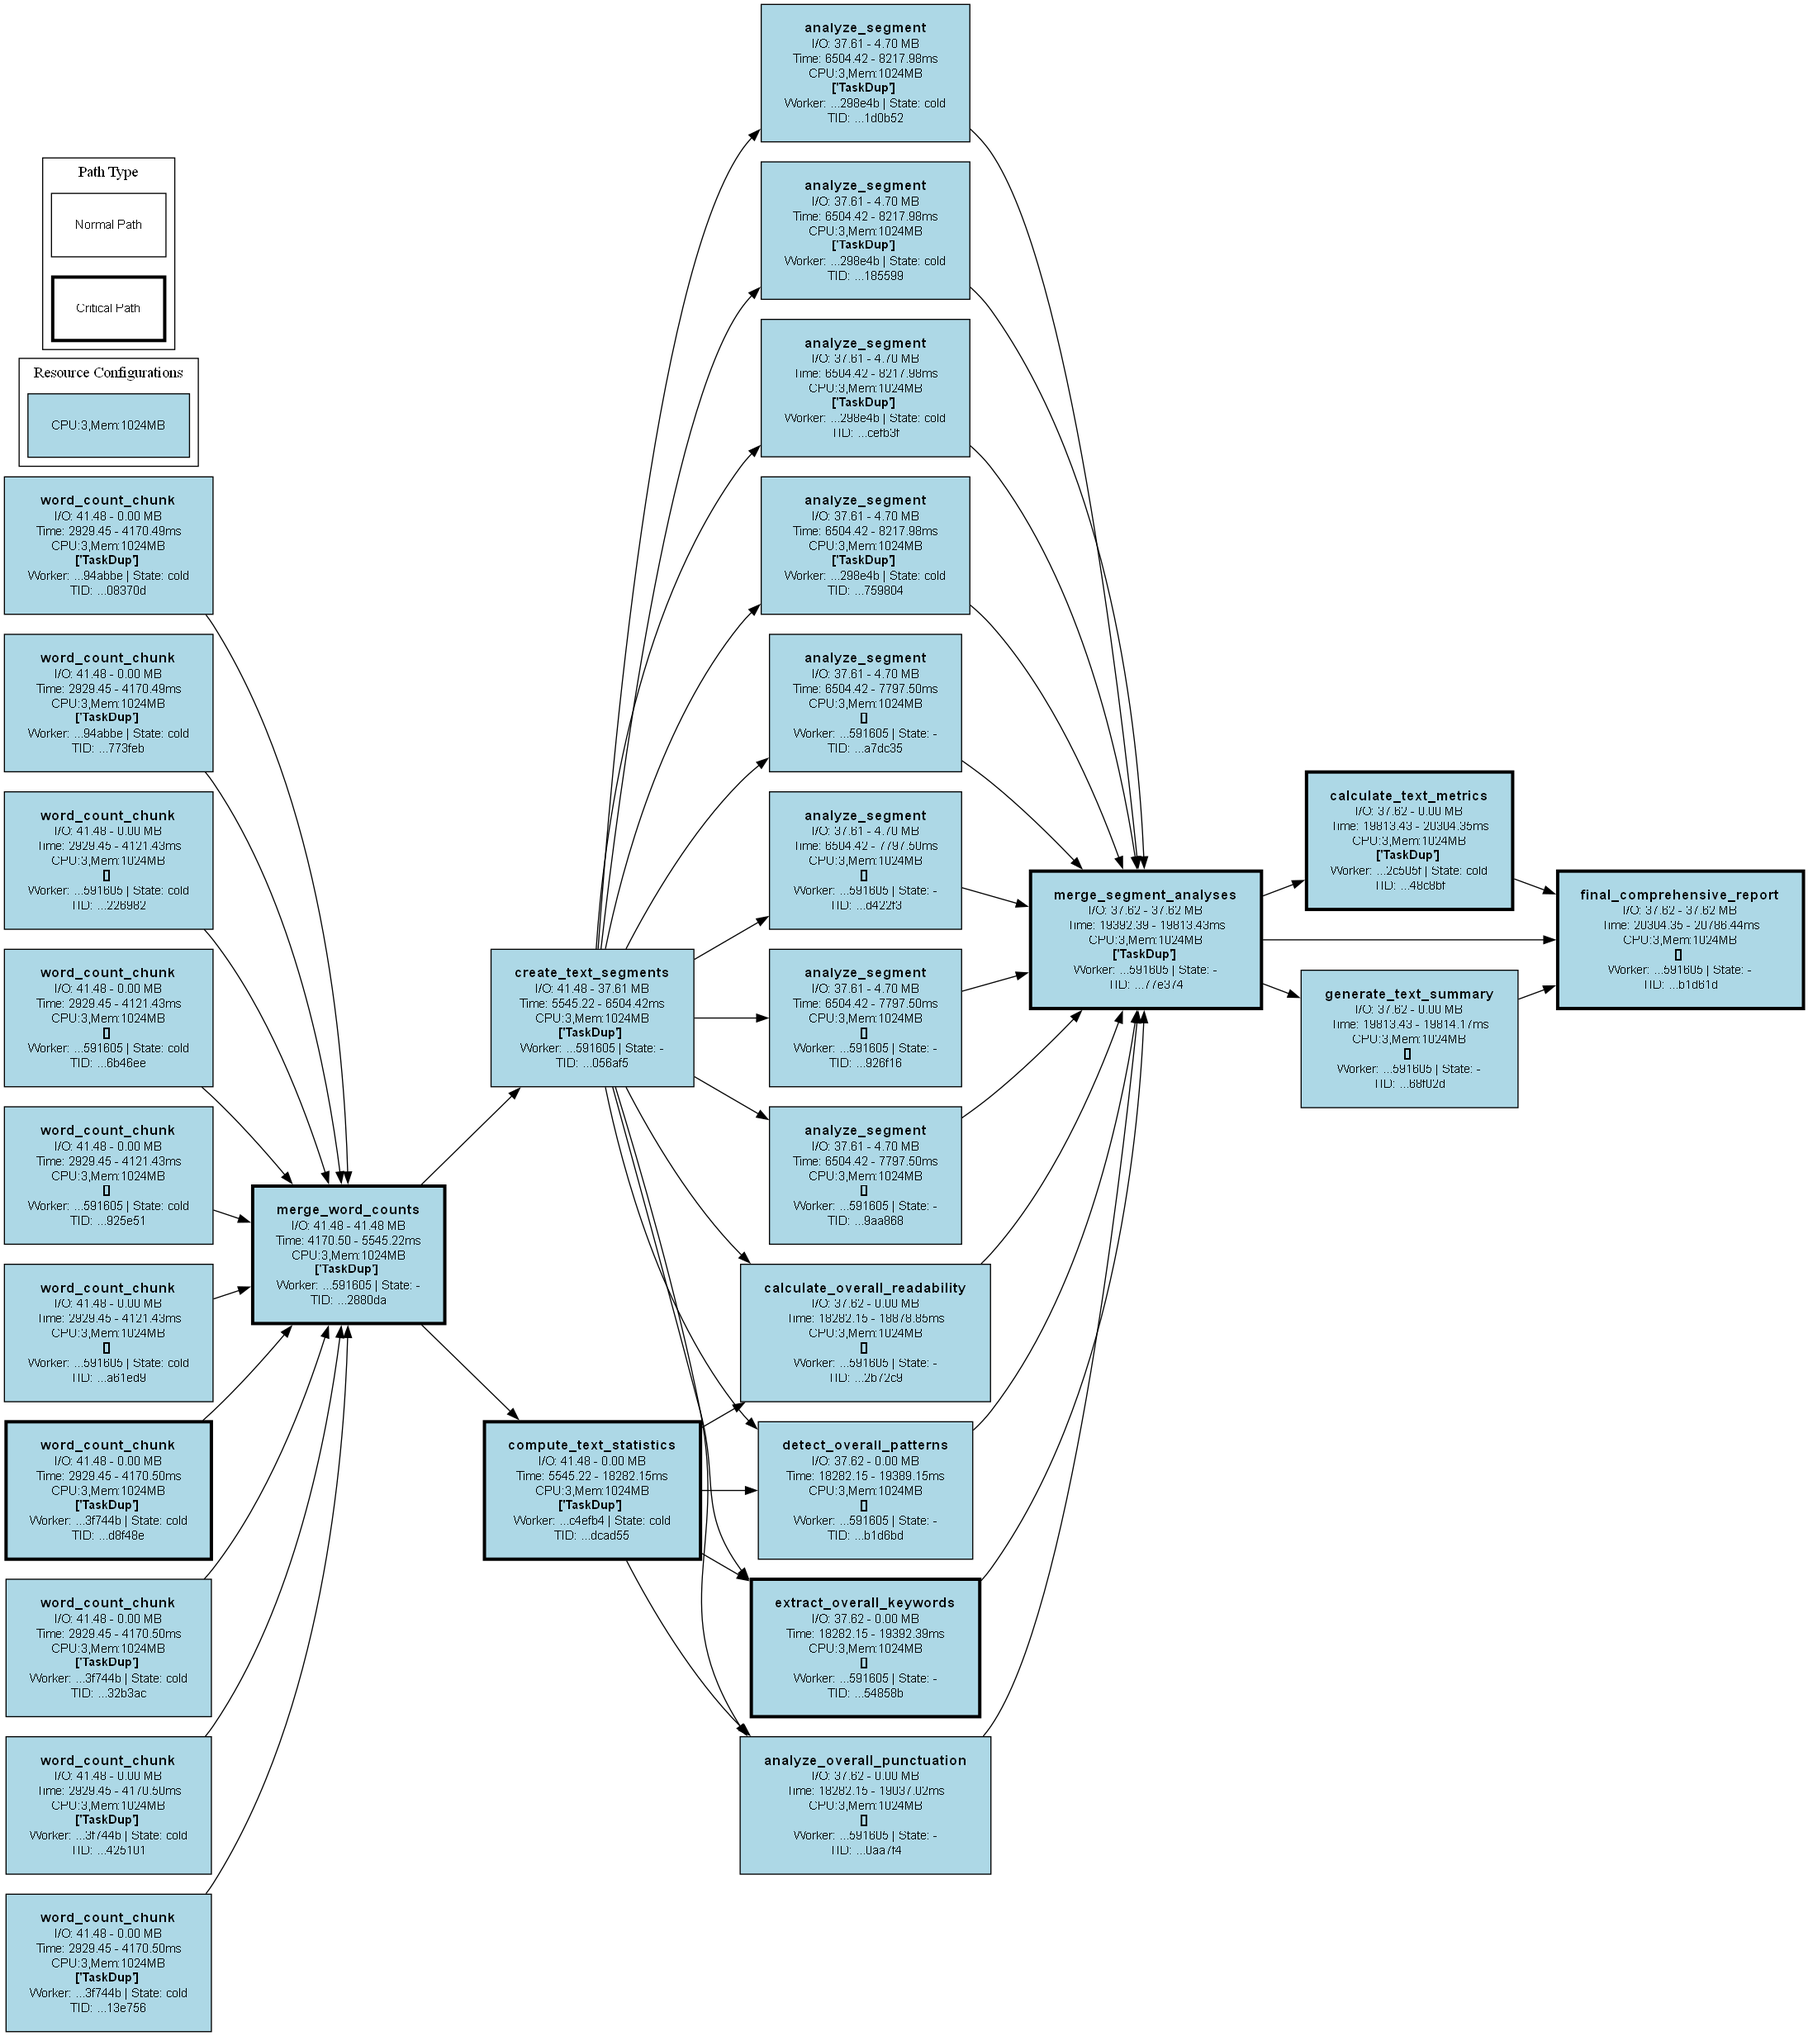
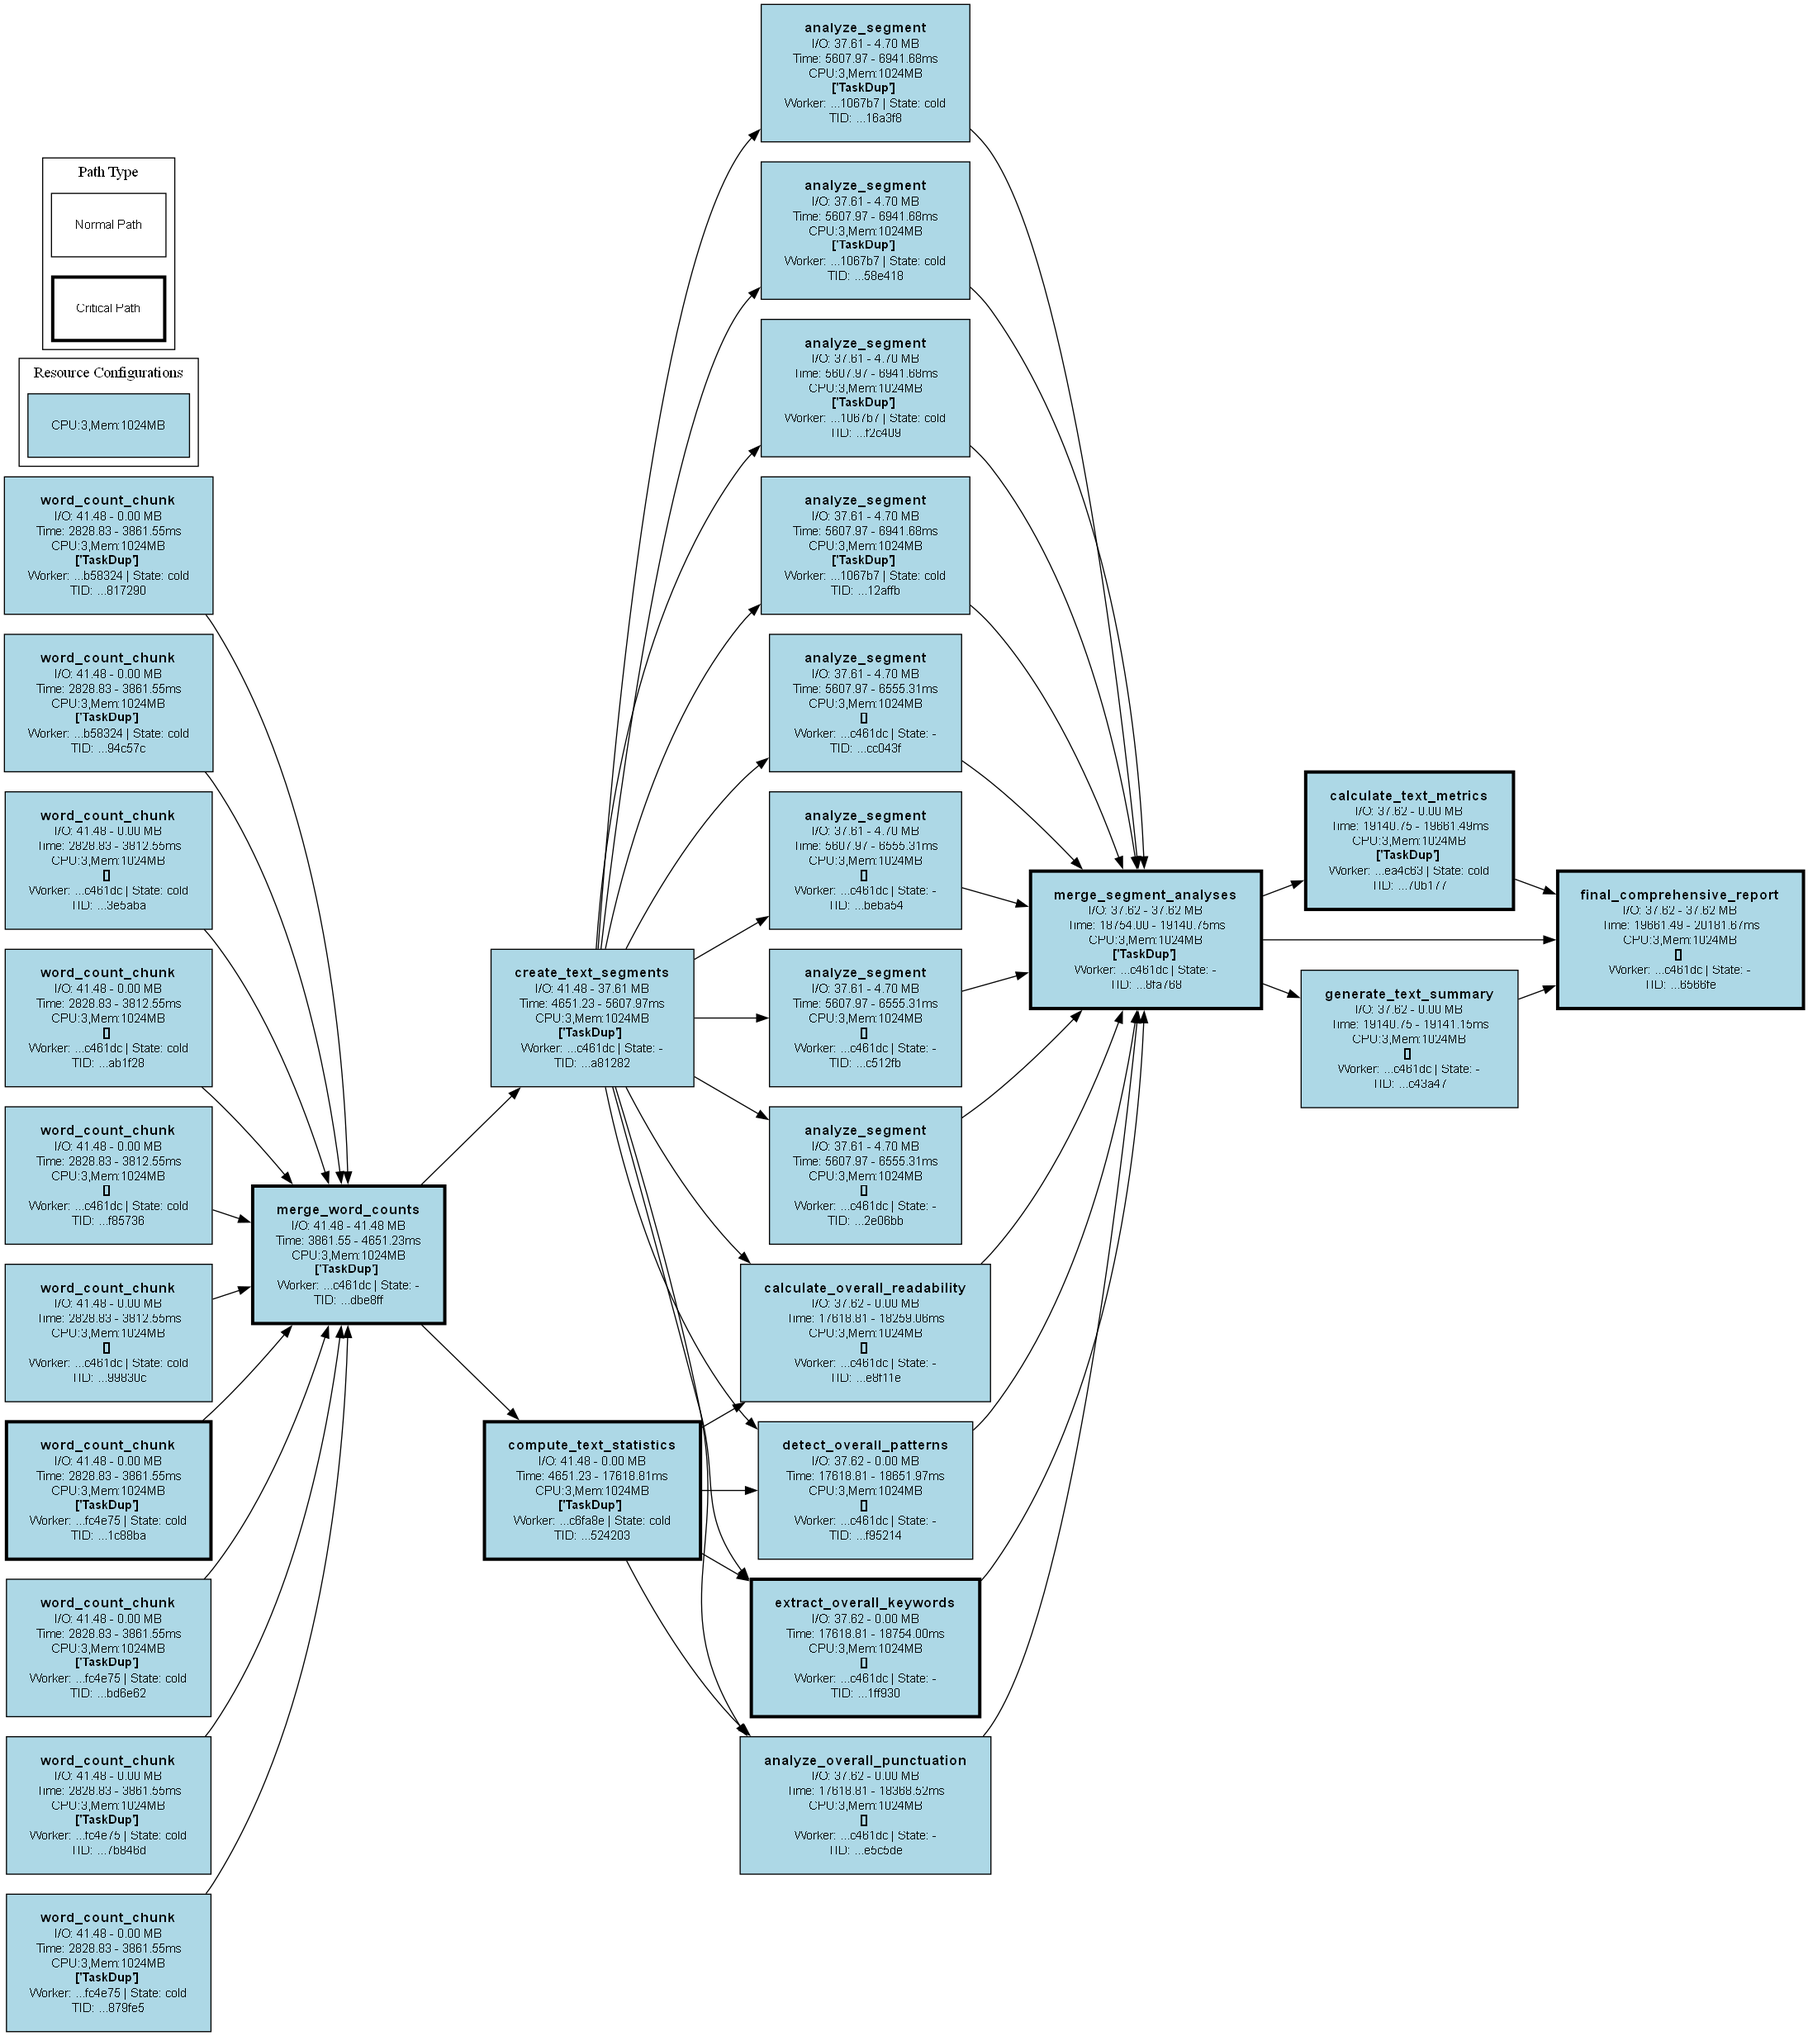
predictions are good again

diff --git a/src/planning/predictions/predictions_provider.py b/src/planning/predictions/predictions_provider.py
@@ -201,7 +201,7 @@ class PredictionsProvider:
                 raise ValueError(f"No data available for {type} or invalid speed data")
             
             res = (data_size_bytes ** 1) / speed_bytes_per_ms
-            print(f"Time to {type} {data_size_bytes} bytes: {res}ms | exponent: {1}")
+            # print(f"Time to {type} {data_size_bytes} bytes: {res}ms | exponent: {1}")
         else:
             _baseline_normalized_samples = [
                 (speed * (BASELINE_MEMORY_MB / memory_mb) ** 0.3, total_bytes)

diff --git a/src/planning/abstract_dag_planner.py b/src/planning/abstract_dag_planner.py
@@ -276,7 +276,7 @@ class AbstractDAGPlanner(WorkerExecutionLogic):
             self._store_plan_image(_dag, plan_result.nodes_info, plan_result.critical_path_node_ids)
             # self._store_plan_as_json(_dag, plan_result.nodes_info)
             self.validate_plan(_dag.root_nodes)
-        exit() # !!! FOR QUICK TESTING ONLY. REMOVE LATER !!
+        # exit() # !!! FOR QUICK TESTING ONLY. REMOVE LATER !!
         return plan_result
 
     @abstractmethod

diff --git a/TODO.md b/TODO.md
@@ -1,11 +1,6 @@
 - Dashboard
     [IMPLEMENTATION]
     - task_dup
-        predictions are bad now??
-            re-check now as timer is stopped at the right time again (shouldn't make a difference because upload speed isn't used)
-            huge download and upload times sometimes
-                stop abstract planner to debug the samples being used
-        
         Run 5 instances on uniform and compare dashboard versus uniform-opt
 
     - prewarm
